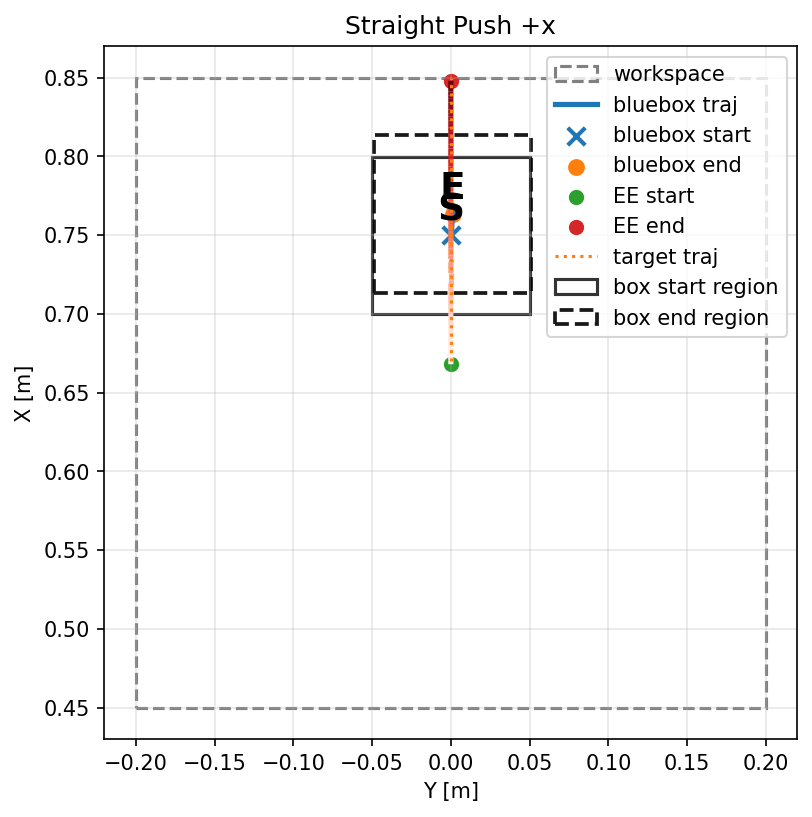
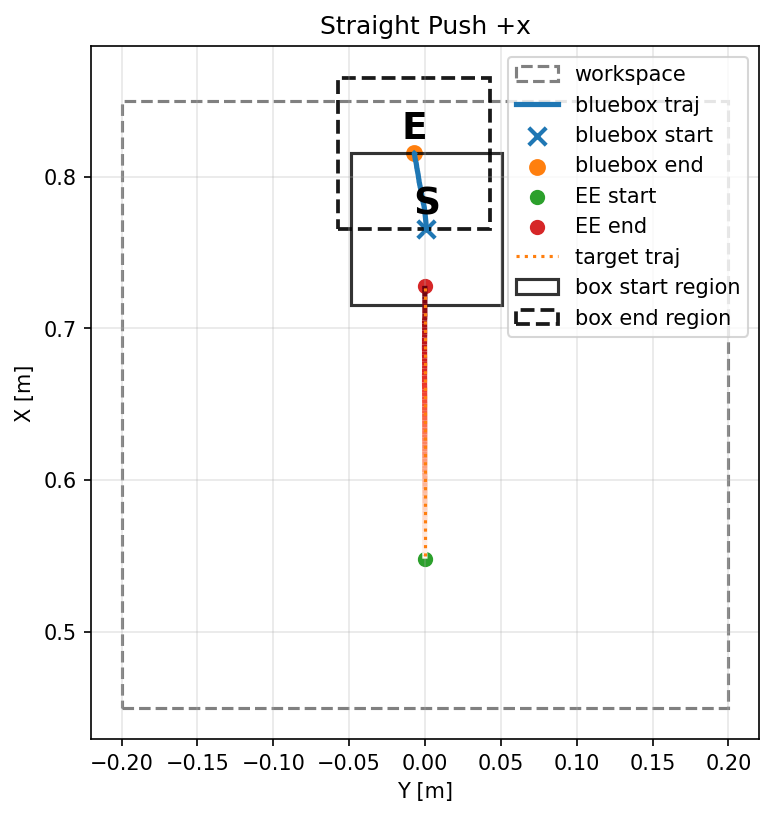
タスク時のゴール画像を作る際に、Franka を指定できるようにする

diff --git a/eval.py b/eval.py
@@ -249,10 +249,12 @@ def run(cfg: DictConfig):
         st_ps = list(cfg.eval.eval_zeroshot.start_positions)
         gl_ps = list(cfg.eval.eval_zeroshot.goal_positions)
         init_ee_ps = list(cfg.eval.eval_zeroshot.init_ee_positions)
+        goal_ee_ps = list(cfg.eval.eval_zeroshot.goal_ee_positions)
         
         start_positions = np.repeat([st_ps], cfg.eval.num_eval, axis=0)
         goal_positions = np.repeat([gl_ps], cfg.eval.num_eval, axis=0)
         init_ee_positions = np.repeat([init_ee_ps], cfg.eval.num_eval, axis=0)
+        goal_ee_positions = np.repeat([goal_ee_ps], cfg.eval.num_eval, axis=0)
         
         video_dir = results_path / "zeroshot"
         video_dir.mkdir(parents=True, exist_ok=True)
@@ -262,6 +264,7 @@ def run(cfg: DictConfig):
             start_positions=start_positions,
             goal_positions=goal_positions,
             init_ee_poses=init_ee_positions,
+            goal_ee_poses=goal_ee_positions,
             eval_budget=cfg.eval.eval_budget,
             start_option_name="box_pos",
             goal_option_name="goal_marker_pos",
@@ -443,6 +446,7 @@ def run(cfg: DictConfig):
     dataset = get_dataset(cfg, cfg.eval.probing.dataset_name)
     val_dataset = get_dataset(cfg, cfg.eval.probing.val_dataset_name)
     
+    shaded_dataset = None
     if  cfg.eval.probing.check_shaded_images.check and cfg.eval.probing.check_shaded_images.shaded_dataset_name is not None:
         shaded_dataset = get_shaded_dataset(cfg, cfg.eval.probing.check_shaded_images.shaded_dataset_name)
 

diff --git a/env/franka/env.py b/env/franka/env.py
@@ -113,6 +113,7 @@ class FrankaSimEnv:
         # self.physics.data.qpos[start_idx+3:start_idx+7] = np.array([1, 0, 0, 0])
         # self.physics.data.qvel[start_idx:start_idx+6] = 0
         
+        #bluebox 回転ありreset
         joint_id = self.physics.model.name2id("free_joint_blue_box", "joint")
 
         qadr = self.physics.model.jnt_qposadr[joint_id]
@@ -121,6 +122,23 @@ class FrankaSimEnv:
         self.physics.data.qpos[qadr:qadr+3] = box_pos
         self.physics.data.qpos[qadr+3:qadr+7] = np.array([1, 0, 0, 0])
         self.physics.data.qvel[dadr:dadr+6] = 0.0
+        
+        #bluebox 回転なしreset
+        # box_x_id = self.physics.model.name2id("blue_box_x", "joint")
+        # box_y_id = self.physics.model.name2id("blue_box_y", "joint")
+
+        # box_x_qadr = self.physics.model.jnt_qposadr[box_x_id]
+        # box_y_qadr = self.physics.model.jnt_qposadr[box_y_id]
+
+        # box_x_dadr = self.physics.model.jnt_dofadr[box_x_id]
+        # box_y_dadr = self.physics.model.jnt_dofadr[box_y_id]
+
+        # # XML の body pos を <body name="blue_box" pos="0 0 0.05"> にしている前提
+        # self.physics.data.qpos[box_x_qadr] = box_pos[0]
+        # self.physics.data.qpos[box_y_qadr] = box_pos[1]
+
+        # self.physics.data.qvel[box_x_dadr] = 0.0
+        # self.physics.data.qvel[box_y_dadr] = 0.0
 
 
         #念のためもう一度グリッパー閉じる

diff --git a/dataset_gen/franka/push/analyze_onedir_move/check_push_x_straight.py b/dataset_gen/franka/push/analyze_onedir_move/check_push_x_straight.py
@@ -213,6 +213,7 @@ def run_straight_x_push(config, direction="+x"):
 
     # ---- 検証用パラメータ ----
     box_start = np.array(config.get("box_start_pos", [0.65, 0.00, 0.05]), dtype=np.float32)
+    ee_start = np.array(config.get("ee_start_pos", [0.55, 0.00, 0.05]), dtype=np.float32)
 
     push_sign = 1.0 if direction == "+x" else -1.0
 
@@ -221,8 +222,8 @@ def run_straight_x_push(config, direction="+x"):
     push_dist = config.get("check_push_dist", 0.18)
     z = config.get("check_ee_z", 0.05)
 
-    ee_start = box_start.copy()
-    ee_start[0] -= push_sign * behind_dist
+
+    # ee_start[0] -= push_sign * behind_dist
     ee_start[2] = z
 
     ee_goal = ee_start.copy()

diff --git a/dataset_gen/franka/push/analyze_shade_image/gen_data.py b/dataset_gen/franka/push/analyze_shade_image/gen_data.py
@@ -29,7 +29,7 @@ def get_center_xyz(config):
 
 def render_fixed_box_dataset(
     config,
-    save_name="shadow_occlusion_probe",
+    save_name="shadow_occlusion_probe_box0p03",
     n_shadow=100,
     n_clear=100,
     n_nobox=100,
@@ -271,7 +271,7 @@ if __name__ == "__main__":
 
     render_fixed_box_dataset(
         config,
-        save_name="shadow_occlusion_probe",
+        save_name="shadow_occlusion_probe_box0p05",
         n_shadow=config["num_data"],
         n_clear=config["num_data"],
         n_nobox=config["num_data"],

diff --git a/env/franka/gym_env.py b/env/franka/gym_env.py
@@ -203,6 +203,7 @@ class FrankaPushEnv(gym.Env):
         start_marker_pos = options.get("start_marker_pos", None)
         goal_marker_pos = options.get("goal_marker_pos", None)
         init_ee_pos = options.get("init_ee_pos", None)
+        goal_ee_pos = options.get("goal_ee_pos", None)
         
         
         # init_position = options.get("init_position", None)
